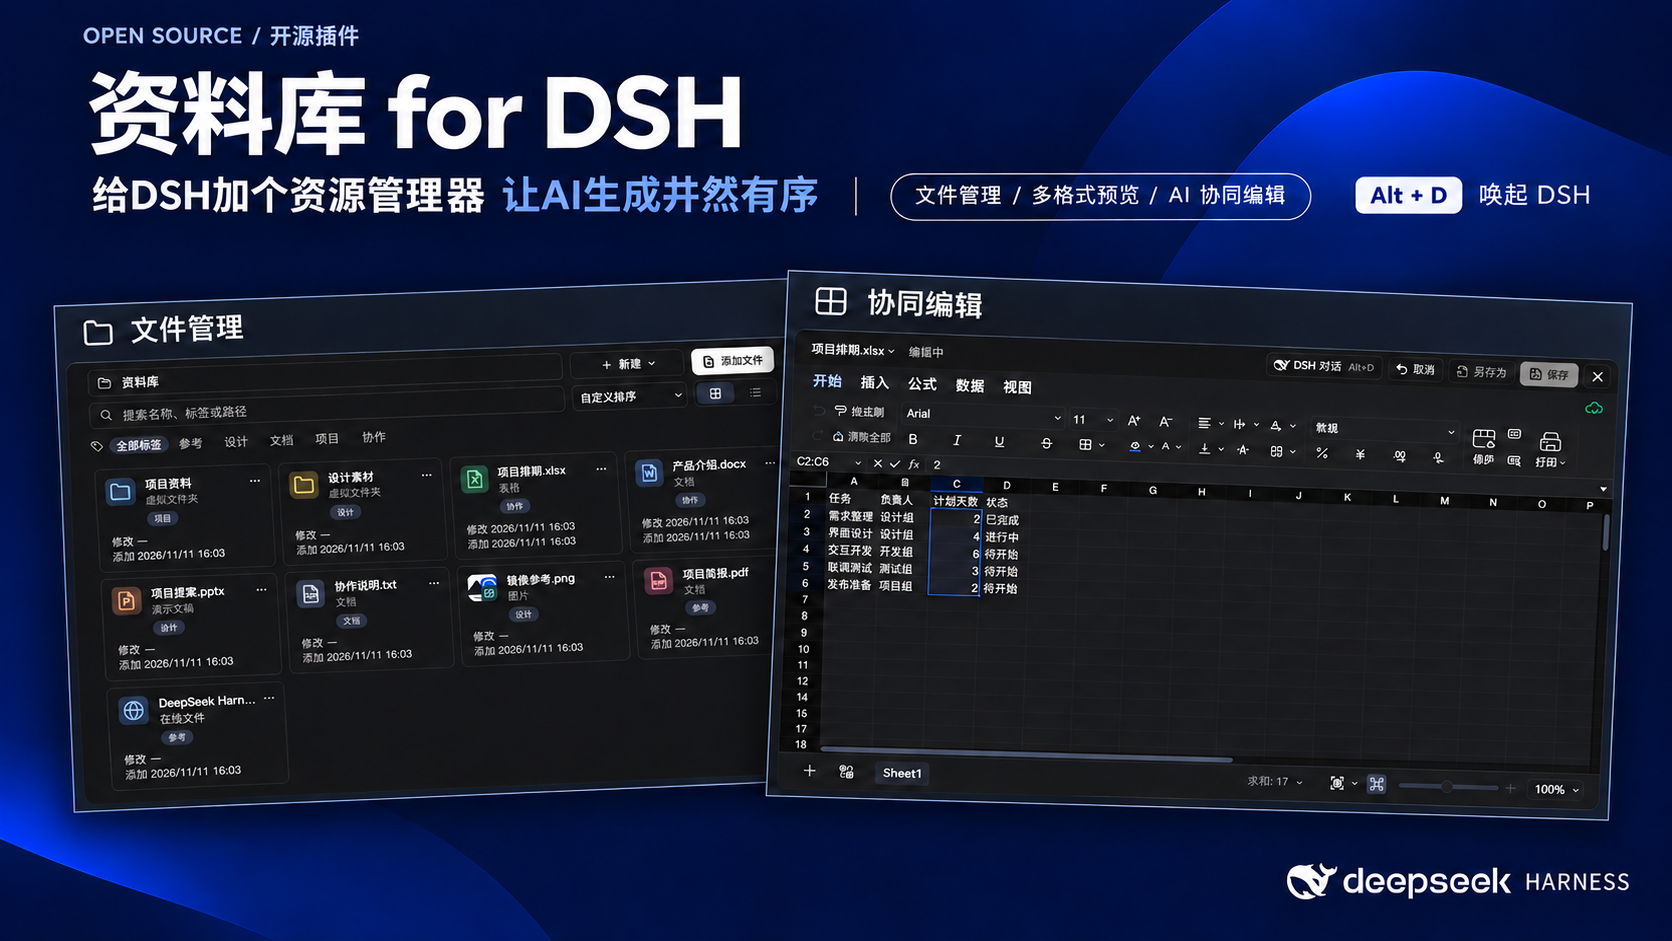
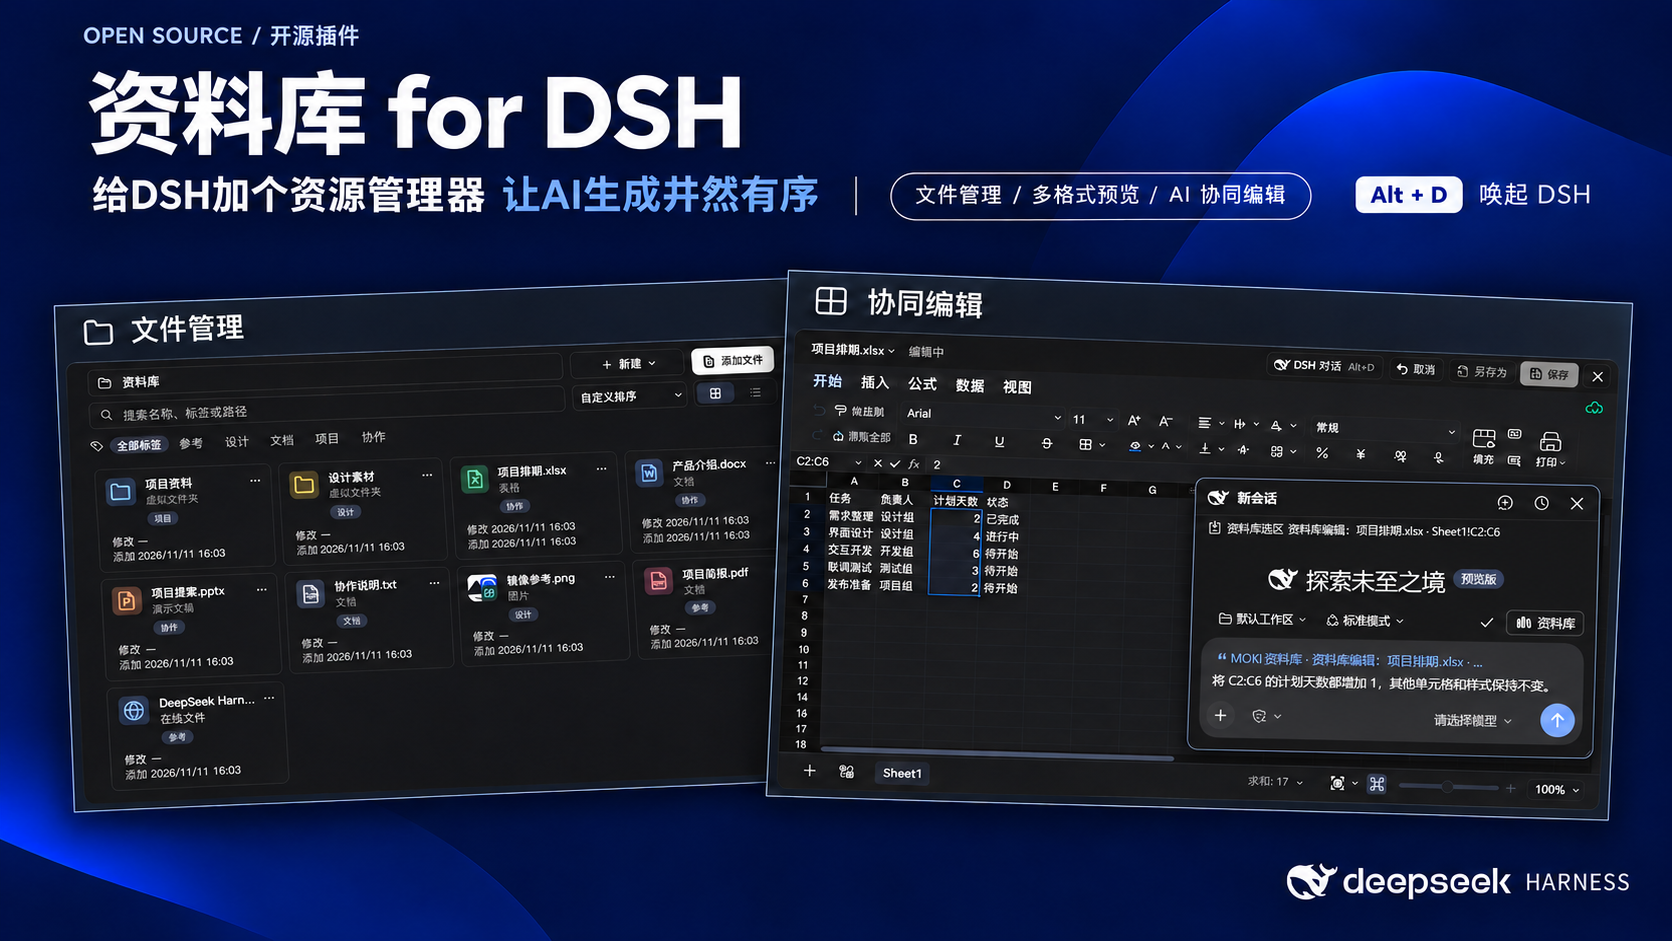
docs: show DSH floating collaboration on both covers

diff --git a/docs/social/README.md b/docs/social/README.md
@@ -1,7 +1,7 @@
 # Media kit / 图文素材包
 
-- `../media/cover.png`: wide repository cover / 横版开源封面。
-- `../media/cover-portrait.png`: portrait cover / 小红书竖版封面。
+- `../media/cover.png`: wide cover with file management, editing and DSH floating chat / 包含文件管理、编辑与 DSH 浮窗的横版封面。
+- `../media/cover-portrait.png`: portrait cover with DSH floating collaboration / 包含 DSH 浮窗协作的小红书竖版封面。
 - `../media/dsh-workspace.png`: full DSH interface, library list and conversation reference / DSH 完整界面、资料库列表与会话引用输入（1600 × 900）。
 - `../media/dsh-workspace-cards.png`: full DSH interface in card mode / DSH 完整界面的卡片模式版本（1600 × 900）。
 - `../media/library.png`: file management demonstration / 文件管理演示图。
@@ -14,11 +14,11 @@
 - [Illustrated usage demos / 图文用法演示](../usage-demos.zh-CN.md) · [English](../usage-demos.md).
 - [Preview and editing formats / 预览与编辑格式](../formats.zh-CN.md) · [English](../formats.md).
 
-The r6 kit adds DSH floating chat to the Excel collaboration illustration, using a real capture of a `Sheet1!C2:C6` reference and an unsent editing request. The original floating-chat screenshot is included. The portrait cover uses a compact layered layout with matching window headers and larger visible UI content. Both covers use **给DSH加个资源管理器 让AI生成井然有序** — “Give DSH a file explorer. Keep AI-generated work organized.” Full DSH interface screenshots were captured from local DSH Web using purpose-made files and an unsent composer draft.
+The r7 kit adds DSH floating chat to both covers, showing file management, spreadsheet editing and contextual conversation together. The floating panel uses a real `Sheet1!C2:C6` reference and an unsent editing request as its source; the original capture and the separate collaboration illustration are included. Both covers use **给DSH加个资源管理器 让AI生成井然有序** — “Give DSH a file explorer. Keep AI-generated work organized.” Full DSH interface screenshots were captured from local DSH Web using purpose-made files and an unsent composer draft.
 
-r6 素材包为 Excel 协作示意图加入 DSH 对话浮窗，展示真实界面中的 `Sheet1!C2:C6` 引用与待发送的修改要求，并附原始浮窗截图。竖版封面延续紧凑叠放的界面排版。横、竖封面的副标题均为「给DSH加个资源管理器 让AI生成井然有序」。完整 DSH 界面展示图提供列表和卡片两种版本，均为本机 DSH Web 实拍，使用演示资料与未发送的输入草稿。
+r7 素材包为横版和竖版封面加入 DSH 浮窗协作框，让文件管理、表格编辑和对话协作同框展示。浮窗以实拍的 `Sheet1!C2:C6` 引用与待发送修改要求为参考，原始截图和独立协作演示图一并收录。副标题为「给DSH加个资源管理器 让AI生成井然有序」。完整 DSH 界面展示图提供列表和卡片两种版本，均为本机 DSH Web 实拍，使用演示资料与未发送的输入草稿。
 
-Download the latest [moki-library-media-kit-v0.1.58-r6.zip](https://github.com/JKZeng-cell/moki-library-for-dsh/releases/download/v0.1.58/moki-library-media-kit-v0.1.58-r6.zip). Earlier media archives remain available in the [release](https://github.com/JKZeng-cell/moki-library-for-dsh/releases/tag/v0.1.58).
+Download the latest [moki-library-media-kit-v0.1.58-r7.zip](https://github.com/JKZeng-cell/moki-library-for-dsh/releases/download/v0.1.58/moki-library-media-kit-v0.1.58-r7.zip). Earlier media archives remain available in the [release](https://github.com/JKZeng-cell/moki-library-for-dsh/releases/tag/v0.1.58).
 
 The covers use the title **资料库 for DSH** and subtitle **给DSH加个资源管理器 让AI生成井然有序**, with slightly tilted, layered windows giving file management and editing comparable visual weight. A smaller monochrome DSH mark sits in the footer.
 
